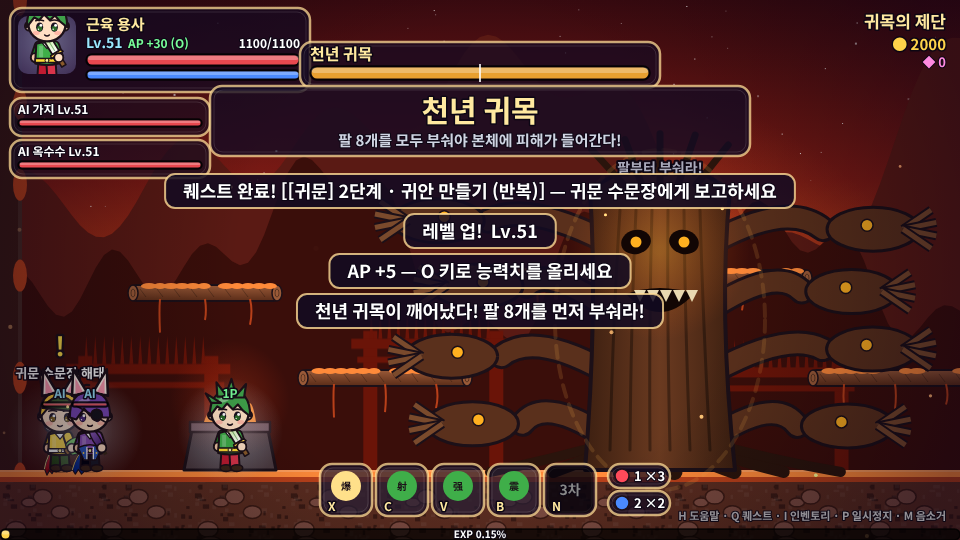
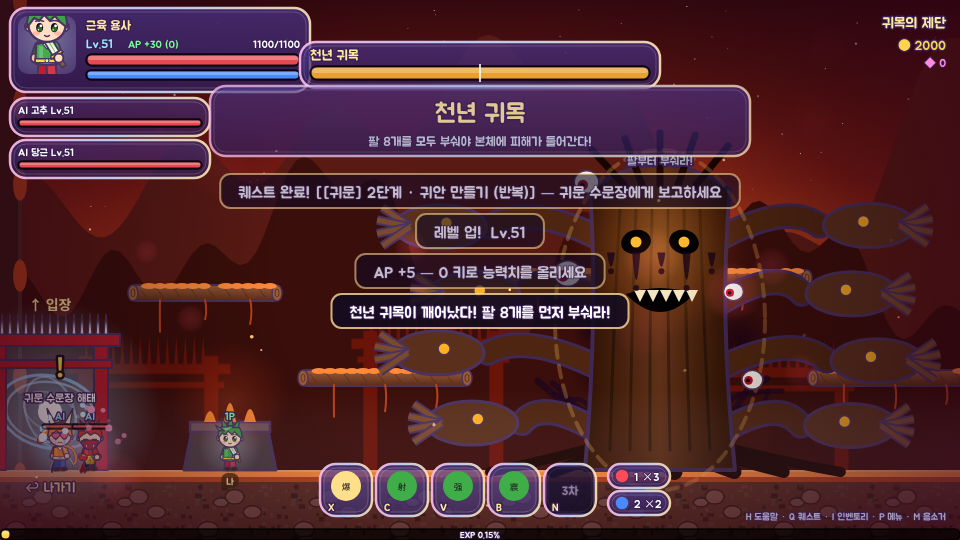
docs: 사냥터·전투 연출·나가기 가이드
Claude-Session: https://claude.ai/code/session_017L5bMY4jqJu3Rbzbdg4ZwK

diff --git a/index.html b/index.html
@@ -1665,6 +1665,7 @@ function updateMobs(dt){
     const mr=rectOf(m);
     for(const p of PARTY){if(!p.dead&&ov(mr,prect(p)))hurtPlayer(p,m.dmg,m.x)}
   }
+  for(const m of S.mobs)if(m.dead&&m.tpl!=null&&!m.queued){m.queued=1;(S.resp=S.resp||[]).push({i:m.tpl,t:RESP_T*(S.L.hunt?.8:1)})}
   S.mobs=S.mobs.filter(m=>!m.dead);
   for(const d of S.dummies){d.flash-=dt;d.shake-=dt;if(d.hp>0){d.regen-=dt;if(d.regen<=0&&d.hp<d.max)d.hp=Math.min(d.max,d.hp+60*dt)}else{d.respawn-=dt;if(d.respawn<=0)d.hp=d.max}}
   for(const b of S.boxes)b.flash-=dt;
@@ -2453,7 +2454,7 @@ function drawAltar(g,a,t,ready){
    QUESTS / DIALOG / SHOP / WARDROBE / HUD / MENUS
    ============================================================ */
 const FONT='"Jua","Malgun Gothic","Apple SD Gothic Neo","Noto Sans KR","Nanum Gothic",sans-serif';
-const F=(s,w='normal')=>`${w} ${s}px ${FONT}`;
+const F=(s,w='normal')=>`${w} ${Math.round(s*.86*10)/10}px ${FONT}`;
 function txt(g,s,x,y,size=16,col='#fff',al='left',o=3){
   g.font=F(size);g.textAlign=al;g.textBaseline='alphabetic';
   if(o){g.lineWidth=o;g.strokeStyle='rgba(58,32,86,.95)';g.lineJoin='round';g.strokeText(s,x,y)}
@@ -2712,6 +2713,7 @@ function talkNPC(n){
     else opts.push({t:'하늘길 (도깨비 대왕 격파 후 개방)',fn:()=>openDialog(n.name,'하늘길은 도깨비 대왕을 쓰러뜨려야 열리네.')});
     if(SAVE.cleared.dokkaebi)opts.push({t:'도깨비 대왕 재도전',fn:()=>{closeUI();goMap('boss1')}});
     if(SAVE.cleared.fox)opts.push({t:'구미호 재도전',fn:()=>{closeUI();goMap('boss2')}});
+    opts.push({t:'사냥터로 가기 …',fn:()=>openDialog(n.name,'어느 사냥터로 보내 줄까? 레벨에 맞는 곳이 경험치가 좋다네.',HUNTS.map(h=>({t:h.name+'  ('+h.lv+')'+(SAVE.lvl<h.min?' 🔒':''),fn:()=>{if(SAVE.lvl<h.min){G.toast(h.name+'은(는) Lv.'+h.min+'부터 갈 수 있어요');return}closeUI();goMap(h.id)}})).concat([{t:'닫기',fn:closeUI}]))});
     opts.push({t:'새싹 항구 (배 타고 돌아가기)',fn:()=>{closeUI();goMap('harbor')}});
     opts.push({t:SAVE.lvl>=15?'비석의 길 (스토리 던전)':'비석의 길 (Lv.15 이상)',fn:()=>{if(SAVE.lvl<15){openDialog(n.name,'비석의 길은 Lv.15 이상만 들어갈 수 있다네.');return}closeUI();goMap('stele')}});
     opts.push({t:SAVE.lvl>=40?'귀문 동굴 (파티던전)':'귀문 동굴 (Lv.40 이상)',fn:()=>{if(SAVE.lvl<40){openDialog(n.name,'귀문은 Lv.40 이상만 들어갈 수 있다네. 그 너머엔 천년 묵은 귀목이 잠들어 있지…');return}closeUI();goMap('cave')}});
@@ -2971,7 +2973,7 @@ function drawHUD(g,t){
   for(const[i,k,c]of[[0,'hp','#ff4a5a'],[1,'mp','#4a8aff']]){const y=H-76+i*27;panel(g,px,y,62,24,.7);circ(g,px+14,y+12,7,c,O_,1.5);txt(g,(i+1)+' ×'+SAVE.potions[k],px+26,y+17,13,'#fff','left',2)}
   // top right
   txt(g,S.L.name,W-14,28,17,'#ffe9a0','right');txt(g,'● '+SAVE.coins,W-14,50,15,'#ffd34a','right');txt(g,'◆ '+SAVE.ec,W-14,67,13,'#ff8ae0','right',2);if(ONLINE_N)txt(g,'🟢 접속 '+ONLINE_N+'명',W-60,67,12,'#9cffb0','right',2);
-  txt(g,'H 도움말 · Q 퀘스트 · I 인벤토리 · P 일시정지 · M 음소거',W-14,H-20,11,'rgba(255,255,255,.55)','right',2);
+  txt(g,'H 도움말 · Q 퀘스트 · I 인벤토리 · P 메뉴 · M 음소거',W-14,H-20,11,'rgba(255,255,255,.55)','right',2);
   // quest tracker
   let qy=78;const act=Object.keys(SAVE.q).filter(k=>SAVE.q[k].s==='active'||SAVE.q[k].s==='ready').slice(0,3);
   for(const k of act){
@@ -3054,7 +3056,7 @@ function drawQuestLog(g,t){
 const HELP=[
   ['1P  이동','← →  /  ↑ ↓ (밧줄·포탈·NPC)'],['1P  점프','Space 또는 Alt  (↓ + 점프 : 아래로 내려가기)'],['1P  공격','Z 또는 Ctrl  (꾹 누르면 연속)'],
   ['1P  스킬','C (수련생) · 1차 X V · 2차 B · 3차 N'],['1P  물약','1 : HP  /  2 : MP'],['2P  이동','A D W S   점프 : Shift   공격 : F'],['2P  스킬','G H T Y U'],
-  ['채팅','Enter : 채팅 (일반 · 확성기 · 고확성기)   O : 능력치(AP)'],['메뉴','Q 퀘스트 · I 인벤토리 · P 일시정지 · M 음소거 · E AI 동료 배치/해제'],['밧줄','밧줄 앞에서 ↑ / ↓ , 점프+좌우로 뛰어내리기'],['팁','일일퀘스트 · PvP 결투장 · 전직(1차 마을/2차 숲 꼭대기/3차 하늘길 끝)'],
+  ['채팅','Enter : 채팅 (일반 · 확성기 · 고확성기)   O : 능력치(AP)'],['메뉴','Q 퀘스트 · I 인벤토리 · P 메뉴 · M 음소거 · E AI 동료 배치/해제'],['밧줄','밧줄 앞에서 ↑ / ↓ , 점프+좌우로 뛰어내리기'],['팁','일일퀘스트 · PvP 결투장 · 전직(1차 마을/2차 숲 꼭대기/3차 하늘길 끝)'],
 ];
 function drawHelp(g){
   g.fillStyle='rgba(8,4,16,.7)';g.fillRect(0,0,W,H);panel(g,90,50,780,440,.94);
@@ -3090,14 +3092,14 @@ function goMap(id,instant,end){
 }
 function loadMap(id,end){
   PARTY=PARTY.filter(p=>!p.foe);
-  const L=MAPS[id]();
+  const L=MAPS[id]();addExitPortal(L);
   if(end&&L.endSpawn)L.spawn=L.endSpawn;
   S={L,id,t:0,time:0,mobs:[],dummies:[],boxes:[],items:[],pshots:[],eproj:[],zones:[],fx:[],clones:[],boss:null,cam:{x:0,y:0},shake:0,hitstop:0,slow:0,
      cp:{x:L.spawn.x,y:L.spawn.y},flagsOn:L.flags.map(f=>Object.assign({on:false},f)),drops:L.drops.map(d=>({x:d.x,y:d.y,period:d.period,t:d.ph,warn:0})),
      bg:getBG(L.theme),kills:0,pq:null,spT:0,npcs:L.npcs};
   parts.length=0;texts.length=0;
   const fire=Object.assign(L.theme==='lava'?{col:'rgba(255,140,60,',col2:'#ff9a40',col3:'#c03010'}:{},L.mhue?{hue:L.mhue}:{});
-  for(const m of L.mobs){if(m[0]==='egg')spawnMob('egg',m[1],m[2],Object.assign({min:m[3],max:m[4]},L.mhue?{hue:L.mhue}:{}));else spawnMob('wisp',m[1],m[2],Object.assign({range:m[3]},fire))}
+  S.resp=[];L.mobs.forEach((m,k)=>spawnTpl(k));
   for(const d of L.dummies)S.dummies.push({kind:'dummy',x:d.x,y:d.y,w:36,h:92,hp:150,max:150,shake:0,flash:0,regen:0,respawn:0});
   for(const b of L.boxes)S.boxes.push(Object.assign({kind:'box',w:44,h:44,dead:false},b));
   if(L.pq){
@@ -3176,6 +3178,7 @@ function nearInteract(){
   return null;
 }
 function usePortal(po){
+  if(po.to==='__exit')return exitDungeon();
   if(po.lockLv&&SAVE.lvl<po.lockLv){G.toast(po.boat?'배는 Lv.5부터 탈 수 있어요 — 항구에서 조금 더 수련해요!':'Lv.'+po.lockLv+' 이상만 갈 수 있다');return}
   if(po.boat){SAVE.flags.leftHarbor=1;saveGame()}
   if(po.lock&&!SAVE.cleared[po.lock]){G.toast('아직 갈 수 없다… ('+MOBNAME(po.lock)+'을(를) 쓰러뜨려야 한다)');return}
@@ -3218,6 +3221,7 @@ function step(dt){
     else if(G.ui==='qlog'){if(pressed.KeyQ||pressed.Escape||pressed.Enter)closeUI()}
     else if(G.ui==='help'){if(Object.keys(pressed).length)closeUI()}
     else if(G.ui==='pause'){const nv=nav();if(nv.u||nv.d){G.psel=1-(G.psel||0);sfx('sel')}if(pressed.KeyP||pressed.Escape){closeUI()}else if(nv.ok){if(G.psel){saveGame();stopMusic();G.state='title';G.ui=null;S=null}else closeUI()}}
+    if(G.state==='play'&&S&&G.ui!=='scene')playStep(dt);   // 온라인 게임: UI 를 열어도 세계는 멈추지 않는다
     return;
   }
   if(pressed.KeyP||pressed.Escape){G.ui='pause';G.psel=0;return}
@@ -3244,7 +3248,7 @@ function playStep(dt){
   S.t+=dt;S.time+=dt;G.banner&&(G.banner.t+=dt);
   updatePlats(L,dt,S.t);
   for(const p of PARTY)updatePlayer(p,dt);
-  updateMobs(dt);updateItems(dt);updatePshots(dt);updateEproj(dt);updateZones(dt);updateBoss(dt);storyStep(dt);presenceStep(dt);
+  updateMobs(dt);updateItems(dt);updatePshots(dt);updateEproj(dt);updateZones(dt);updateBoss(dt);storyStep(dt);presenceStep(dt);respawnStep(dt);fxStep(dt);
   // totems
   for(const d of S.drops){
     d.t+=dt;const ph=d.t%d.period;d.warn=ph>d.period-.75?1:0;
@@ -3382,6 +3386,7 @@ function drawWorld(g){
   }
   if(L.harbor)drawHarborDecor(g,L,t,cam);
   if(L.houses)drawTownDecor(g,L,t,cam);
+  if(L.sign)drawHuntSign(g,L,t);
   if(L.steles)for(const st of L.steles)if(vis(st.x-140,st.y-240,280,290))drawStele(g,st,t,S.near&&S.near.st===st);
   if(L.altar)drawAltar(g,L.altar,t,SAVE.inv.gwi>0&&!S.boss);
   for(const d of S.dummies)drawDummy(g,d,t);
@@ -3399,20 +3404,20 @@ function drawWorld(g){
     if(m.hp<m.max){g.fillStyle='rgba(0,0,0,.6)';g.fillRect(m.x-16,(m.type==='wisp'?m.y-36:m.y-46),32,5);g.fillStyle='#ff5a5a';g.fillRect(m.x-15,(m.type==='wisp'?m.y-35:m.y-45),30*m.hp/m.max,3)}}
   if(S.boss)drawBoss(g,S.boss,t);
   for(const m of S.mobs)if(m.type==='arm'&&!m.dead)drawArm(g,m,t);
-  drawPeers(g,t);
+  drawPeers(g,t);drawTrails(g,t);
   // party
   const order=PARTY.slice().reverse();
   for(const p of order){
     if(p.dead){g.save();g.globalAlpha=.45;drawVeggie(g,JOB[p.job],{sc:WSC,fid:p.fid,x:p.x,y:p.y-30+Math.sin(t*3)*6,face:p.face,t:p.t,st:'idle',eq:p.eq,tier:p.tier,alpha:.45});g.restore();continue}
     const st=p.stun>0?'hurt':p.skillT>0&&p.atkT<=0?'skill':p.atkT>0?'atk':p.rope?'climb':!p.onGround?'air':Math.abs(p.vx)>30?'run':'idle';
     const blink=p.inv>0&&Math.floor(p.inv*14)%2===0&&p.stun<=0;
-    drawVeggie(g,JOB[p.job],{sc:WSC,fid:p.fid,x:p.x,y:p.y,face:p.face,t:p.t,st,ap:p.atkDur?1-p.atkT/p.atkDur:0,combo:p.combo,buff:!!p.buff,eq:p.eq,tier:p.tier,alpha:blink?.45:1});
+    drawVeggie(g,JOB[p.job],{sc:WSC,fid:p.fid,x:p.x,y:p.y-(p.skillT>0?Math.sin(clamp(1-p.skillT/.38,0,1)*Math.PI)*9:0),face:p.face,t:p.t,st,ap:p.atkDur?1-p.atkT/p.atkDur:0,combo:p.combo,buff:!!p.buff,eq:p.eq,tier:p.tier,alpha:blink?.45:1});
     if(p.shieldT>0){g.strokeStyle=`rgba(150,230,255,${.5+.3*Math.sin(t*10)})`;g.lineWidth=3;g.beginPath();g.arc(p.x,p.y-18,24,0,6.28);g.stroke();g.fillStyle='rgba(150,230,255,.12)';g.fill()}
     if(L.pvp){txt(g,(p===lead?'1P':p.kind==='p2'?'2P':p.team===lead.team?'아군':'상대'),p.x,p.y-50,12,p.team===lead.team?'#7aff9a':'#ff8a8a','center',3);bar(g,p.x-18,p.y-46,36,5,p.hp/p.maxhp,'#e8484f')}
     else if(p!==lead){txt(g,(p.kind==='p2'?'2P':'AI')+(p.hold?' ■':''),p.x,p.y-50,12,p.kind==='p2'?'#ffb84a':'#9be8ff','center',3);bar(g,p.x-18,p.y-46,36,5,p.hp/p.maxhp,'#e8484f')}
     else txt(g,'1P',p.x,p.y-50,12,'#7aff9a','center',3);
   }
-  drawSelfTag(g);
+  drawSelfTag(g);drawFX2(g,t);
   for(const s of S.pshots)drawPshot(g,s,t);
   for(const e of S.eproj)drawEproj(g,e,t);
   for(const z of S.zones)drawZone(g,z,t);
@@ -3448,7 +3453,7 @@ function render(){
     if(G.banner&&G.banner.t<3.2&&!G.ui){const a=Math.min(1,G.banner.t*2,(3.2-G.banner.t)*2);g.globalAlpha=clamp(a,0,1);
       panel(g,W/2-270,86,540,70,.78);txt(g,G.banner.name,W/2,122,30,'#ffe9a0','center');txt(g,G.banner.sub,W/2,146,15,'#cfd4e2','center',2);g.globalAlpha=1}
     if(G.ui==='dialog')drawDialog(g,t);else if(G.ui==='shop')drawShop(g,t);else if(G.ui==='wardrobe')drawWardrobe(g,t);else if(G.ui==='inv')drawInv(g,t);else if(G.ui==='stat')drawStat(g,t);else if(G.ui==='fame')drawFame(g,t);else if(G.ui==='scene')drawScene(g,t);else if(G.ui==='qlog')drawQuestLog(g,t);else if(G.ui==='help')drawHelp(g);
-    else if(G.ui==='pause'){g.fillStyle='rgba(8,4,16,.6)';g.fillRect(0,0,W,H);txt(g,'일시정지',W/2,200,36,'#ffe9a0','center');['계속하기','저장하고 타이틀로'].forEach((s,i)=>{const y=240+i*50,sel=(G.psel||0)===i;g.fillStyle=sel?'rgba(255,220,120,.3)':'rgba(255,255,255,.08)';g.beginPath();g.roundRect(W/2-140,y,280,40,10);g.fill();txt(g,s,W/2,y+27,19,sel?'#ffe9a0':'#fff','center')})}
+    else if(G.ui==='pause'){g.fillStyle='rgba(8,4,16,.6)';g.fillRect(0,0,W,H);txt(g,'메뉴 (게임은 계속 진행 중)',W/2,200,30,'#ffe9a0','center');['계속하기','저장하고 타이틀로'].forEach((s,i)=>{const y=240+i*50,sel=(G.psel||0)===i;g.fillStyle=sel?'rgba(255,220,120,.3)':'rgba(255,255,255,.08)';g.beginPath();g.roundRect(W/2-140,y,280,40,10);g.fill();txt(g,s,W/2,y+27,19,sel?'#ffe9a0':'#fff','center')})}
     if(S.pvp&&S.pvp.over){g.fillStyle='rgba(8,4,16,.55)';g.fillRect(0,0,W,H);const win=S.pvp.winner===0;txt(g,win?'승리!':'패배…',W/2,230,56,win?'#ffe04a':'#ff8a8a','center');txt(g,S.pvp.score[0]+' : '+S.pvp.score[1]+'   (전적 '+SAVE.duel.w+'승 '+SAVE.duel.l+'패)',W/2,276,22,'#fff','center');if(S.pvp.t>1.2)txt(g,'Enter : 마을로',W/2,320,20,'#cfd4e2','center',2)}
     if(G.state==='over'){g.fillStyle='rgba(20,0,10,.7)';g.fillRect(0,0,W,H);txt(g,'기절했다…',W/2,230,48,'#ff8a8a','center');txt(g,'Enter : 다시 도전      Esc : 마을로',W/2,290,20,'#fff','center')}
     if(G.state==='clear'&&G.clear){g.fillStyle='rgba(8,4,16,.6)';g.fillRect(0,0,W,H);panel(g,W/2-250,120,500,300,.94);txt(g,G.clear.title,W/2,184,36,'#ffe04a','center');G.clear.lines.forEach((l,i)=>txt(g,l,W/2,236+i*34,20,'#fff','center'));txt(g,'Enter : 돌아가기',W/2,392,17,'#cfd4e2','center',2)}
@@ -4201,6 +4206,7 @@ function buildTown2(){
   L.npcs.push(Object.assign({},NPCS.find(n=>n.id==='roofcat'),{x:roof.x+roof.w/2,gy:gy-roof.h-26}));
   L.npcs.push(Object.assign({},NPCS.find(n=>n.id==='swingkid'),{x:320,gy}));
   L.npcs.push(Object.assign({},NPCS.find(n=>n.id==='balloon'),{x:bx,gy:120}));
+  L.portals.unshift({x:40,y:gy,to:'h1',label:'꽃잎 언덕 (사냥터)',lockLv:5});
   L.houses=HS;L.bigTree={x:320,y:gy};L.balloon={x:bx,y:120};
   return L;
 }
@@ -4411,5 +4417,129 @@ function drawTitle(g,t){
   txt(g,'↑↓ 선택 · Enter 확인',W/2,H-14,14,'#fff','center',3);
   txt(g,ACCT?'☁ '+ACCT.name+' 님 · 클라우드 저장 '+(CLOUD.ok===false?'(연결 실패)':'ON'):'게스트 · 이 브라우저에만 저장돼요',W-14,H-14,13,'#fff','right',3);
   if(G.helpT)drawHelp(g);
+}
+/* ============================================================
+   HUNT : 사냥터 5곳 · 몬스터 리젠 · 던전 나가기 · 스킬 이펙트/모션
+   ============================================================ */
+/* ---------- 사냥터 ---------- */
+const HUNTS=[
+ {id:'h1',name:'꽃잎 언덕',lv:'Lv.5~15',min:5,theme:'forest',ms:1,hue:0,sub:'벚꽃잎이 흩날리는 첫 사냥터'},
+ {id:'h2',name:'반딧불 숲',lv:'Lv.15~30',min:15,theme:'bamboo',ms:2.4,hue:80,sub:'밤마다 반딧불이 춤추는 대나무 숲'},
+ {id:'h3',name:'솜사탕 구름 목장',lv:'Lv.30~50',min:30,theme:'sky',ms:4.5,hue:300,sub:'구름 양떼가 뛰노는 하늘 목장'},
+ {id:'h4',name:'별빛 호수',lv:'Lv.50~70',min:50,theme:'night',ms:7,hue:200,sub:'별이 내려앉은 고요한 호숫가'},
+ {id:'h5',name:'달그림자 계곡',lv:'Lv.70~',min:70,theme:'origin',ms:10,hue:260,sub:'꿈과 현실의 경계, 가장 깊은 계곡'},
+];
+function buildHunt(i){
+  const H=HUNTS[i],gy=470,Wd=2800,r=mulberry(4000+i*17);
+  const L=newL({id:H.id,name:H.name,sub:H.lv+' · '+H.sub,theme:H.theme,music:i>=3?'sky':'field',w:Wd,h:540,mscale:H.ms,mhue:H.hue,hunt:i+1,spawn:{x:140,y:gy}});
+  L.plats.push(plat(-300,gy,Wd+600,300,'s'));
+  // 메이플식 층 구조 : 긴 발판 + 밧줄
+  const tiers=[[360,[[260,520],[960,560],[1700,620]]],[250,[[560,520],[1300,560],[2020,520]]],[140,[[880,460],[1640,480]]]];
+  for(const[y,list]of tiers)for(const[x,w]of list){
+    L.plats.push(plat(x,y,w,16,'o'));
+    L.ropes.push({x:x+40+Math.round(r()*(w-80)),y1:y,y2:gy});
+    const n=w>=540?2:1;for(let k=0;k<n;k++){const mx=x+40+(w-80)*(k+.5)/n;L.mobs.push(['egg',mx,y,x+12,x+w-12])}
+  }
+  for(let k=0;k<7;k++){const x=320+k*340;L.mobs.push(['egg',x,gy,x-150,x+150])}
+  for(let k=0;k<4;k++)L.mobs.push(['wisp',500+k*560,200+(k%2)*60,90]);
+  L.portals=[{x:60,y:gy,to:i?HUNTS[i-1].id:'town',label:i?'← '+HUNTS[i-1].name:'← 야채마을'}];
+  if(i<HUNTS.length-1)L.portals.push({x:Wd-70,y:gy,to:HUNTS[i+1].id,label:HUNTS[i+1].name+' →',lockLv:HUNTS[i+1].min});
+  else L.portals.push({x:Wd-70,y:gy,to:'town',label:'야채마을 →'});
+  L.sign={x:230,y:gy,t:H.name,s:H.lv};
+  return L;
+}
+HUNTS.forEach((h,i)=>{MAPS[h.id]=()=>buildHunt(i)});
+function drawHuntSign(g,L,t){
+  const s=L.sign;if(!s)return;const x=s.x,y=s.y;
+  g.fillStyle='#8a6040';g.fillRect(x-4,y-80,8,80);g.strokeStyle=O_;g.lineWidth=2;g.strokeRect(x-4,y-80,8,80);
+  g.beginPath();g.roundRect(x-74,y-122,148,50,10);const gr=g.createLinearGradient(0,y-122,0,y-72);gr.addColorStop(0,'#fff6fd');gr.addColorStop(1,'#f0d8ff');g.fillStyle=gr;g.fill();g.lineWidth=2.5;g.stroke();
+  txt(g,s.t,x,y-100,15,'#7a3a9a','center',0);txt(g,s.s,x,y-81,12,'#9a70c0','center',0);
+  for(let k=0;k<3;k++)circ(g,x-60+k*60,y-122,3.5,['#ff9ad8','#ffe080','#a8e0ff'][k],O_,1);
+}
+
+/* ---------- 몬스터 리젠 (빠르게) ---------- */
+const RESP_T=2.2;
+function spawnTpl(i){
+  const L=S.L,m=L.mobs[i];if(!m)return null;let mob;
+  const fire=Object.assign(L.theme==='lava'?{col:'rgba(255,140,60,',col2:'#ff9a40',col3:'#c03010'}:{},L.mhue?{hue:L.mhue}:{});
+  if(m[0]==='egg')mob=spawnMob('egg',m[1],m[2],Object.assign({min:m[3],max:m[4]},L.mhue?{hue:L.mhue}:{}));
+  else mob=spawnMob('wisp',m[1],m[2],Object.assign({range:m[3]},fire));
+  if(mob)mob.tpl=i;return mob;
+}
+function respawnStep(dt){
+  if(!S.resp)S.resp=[];
+  for(const m of S.mobs)if(m.dead&&m.tpl!=null&&!m.queued){m.queued=1;S.resp.push({i:m.tpl,t:RESP_T*(S.L.hunt?.8:1)})}
+  for(const r of S.resp)r.t-=dt;
+  const ready=S.resp.filter(r=>r.t<=0);S.resp=S.resp.filter(r=>r.t>0);
+  for(const r of ready){const m=spawnTpl(r.i);if(m){spark(m.x,m.y-14,12,'#fff0ff',160,.5,3,0,true);m.flash=.3}}
+}
+
+/* ---------- 던전 · 사냥 맵 나가기 ---------- */
+function addExitPortal(L){
+  if(L.town||L.pvp||L.hunt||L.noExit)return;
+  L.portals.push({x:Math.max(40,(L.spawn?L.spawn.x:100)-70),y:L.spawn?L.spawn.y:470,to:'__exit',label:'↩ 나가기',exit:true});
+}
+function exitDungeon(){
+  const busy=(S.boss&&!S.boss.dead)||(S.dg&&!S.dg.done)||S.L.pq||S.L.altarMap&&S.boss;
+  const go=()=>{closeUI();if(S.L.pq){G.pqRun=null}if(S.pvp)S.pvp.over=true;returnTown()};
+  if(busy){openDialog('던전 나가기','지금 나가면 이 던전의 진행 상황이 사라져요.\n(보스 체력 · 웨이브 · 파티퀘스트 단계)\n\n정말 나갈까요?',[{t:'나가기',fn:go},{t:'계속 싸우기',fn:closeUI}]);return}
+  go();
+}
+
+/* ---------- 스킬 이펙트 · 모션 ---------- */
+const FX2=[];
+const jobCol=p=>{const c=JOB[p.job];return c.fx||c.col||'#ffd34a'};
+function fxPush(o){FX2.push(Object.assign({t:0},o));if(FX2.length>120)FX2.shift()}
+const _castSkill=castSkill;
+castSkill=function(p,i){
+  const cd=p.cds[i];_castSkill(p,i);
+  if(p.cds[i]>cd){ // 실제로 발동했을 때
+    const col=jobCol(p),tier=SK_TIER[i];
+    fxPush({k:'circle',x:p.x,y:p.y,col,max:.7,r:34+tier*8});
+    fxPush({k:'pillar',x:p.x,y:p.y,col,max:.45});
+    for(let k=0;k<3;k++)fxPush({k:'ring',x:p.x,y:p.y-18,col,max:.5,delay:k*.08,r:60+k*20});
+    spark(p.x,p.y-20,16+tier*6,col,260,.6,3.2,-40,true);
+    p.trailT=.45;S.shake=Math.max(S.shake,3+tier*2);
+    if(tier>=2)G.flashT=.12,G.flashC=col;
+    ftext(p.x,p.y-64,JOB[p.job].sk[i].n,'#fff',13,.9);
+  }
+};
+const _doBasic=doBasic;
+doBasic=function(p,I){_doBasic(p,I);const b=JOB[p.job].basic;
+  if(b.k==='shoot')fxPush({k:'muzzle',x:p.x+p.face*16,y:p.y-22,col:jobCol(p),max:.15,f:p.face});
+  else fxPush({k:'swing',x:p.x,y:p.y-20,col:jobCol(p),max:.22,f:p.face,r:(b.range||50)*.8});
+};
+const _dealDamage=dealDamage;
+dealDamage=function(p,t,dmg,dir){_dealDamage(p,t,dmg,dir);try{const r=rectOf(t);fxPush({k:'hit',x:r.x+r.w/2+rnd(-6,6),y:r.y+r.h*.45+rnd(-6,6),col:p?jobCol(p):'#fff',max:.25,rot:Math.random()*6})}catch(e){}};
+function fxStep(dt){
+  for(const f of FX2)f.t+=dt;for(let i=FX2.length-1;i>=0;i--)if(FX2[i].t>FX2[i].max+(FX2[i].delay||0))FX2.splice(i,1);
+  for(const p of PARTY){p.trailT=Math.max(0,(p.trailT||0)-dt);
+    if(p.trailT>0||p.dashT>0){p.trail=p.trail||[];p.trail.push({x:p.x,y:p.y,f:p.face,st:p.atkT>0?'atk':'skill',a:.35});if(p.trail.length>6)p.trail.shift()}else if(p.trail&&p.trail.length)p.trail.shift()}
+  for(const s of S.pshots)if(Math.random()<.7)parts.push({x:s.x+rnd(-3,3),y:s.y+rnd(-3,3),vx:-s.vx*.05,vy:rnd(-10,10),life:.3,max:.3,size:rnd(2,3.6),col:s.owner?jobCol(s.owner):'#fff',grav:0,glow:true});
+  if(G.flashT>0)G.flashT-=dt;
+}
+function drawTrails(g,t){
+  for(const p of PARTY){if(!p.trail||!p.trail.length)continue;
+    p.trail.forEach((q,i)=>{g.save();g.globalAlpha=.08+i*.05;g.filter='brightness(1.6) saturate(1.4)';drawVeggie(g,JOB[p.job],{sc:WSC,fid:p.fid,x:q.x,y:q.y,face:q.f,t:p.t,st:q.st,eq:p.eq,tier:p.tier});g.restore()})}
+}
+function drawFX2(g,t){
+  for(const f of FX2){const k=Math.max(0,f.t-(f.delay||0))/f.max;if(f.t<(f.delay||0))continue;const a=1-k;
+    g.save();
+    if(f.k==='circle'){g.translate(f.x,f.y);g.scale(1,.32);g.rotate(t*3);g.globalAlpha=a;g.strokeStyle=f.col;g.lineWidth=3;
+      g.beginPath();g.arc(0,0,f.r*(.6+k*.5),0,6.28);g.stroke();g.lineWidth=1.6;g.beginPath();g.arc(0,0,f.r*(.42+k*.4),0,6.28);g.stroke();
+      for(let i=0;i<6;i++){const an=i/6*6.28;g.save();g.rotate(an);g.fillStyle=f.col;g.fillRect(f.r*(.5+k*.45)-3,-3,6,6);g.restore()}
+      g.globalCompositeOperation='lighter';g.globalAlpha=a*.35;const gr=g.createRadialGradient(0,0,0,0,0,f.r);gr.addColorStop(0,f.col);gr.addColorStop(1,'rgba(0,0,0,0)');g.fillStyle=gr;g.beginPath();g.arc(0,0,f.r,0,6.28);g.fill()}
+    else if(f.k==='pillar'){g.globalCompositeOperation='lighter';g.globalAlpha=a*.6;const w=20*(1-k*.5),gr=g.createLinearGradient(0,f.y-120,0,f.y);gr.addColorStop(0,'rgba(255,255,255,0)');gr.addColorStop(1,f.col);g.fillStyle=gr;g.fillRect(f.x-w/2,f.y-120,w,120)}
+    else if(f.k==='ring'){g.globalAlpha=a*.8;g.strokeStyle='#fff';g.lineWidth=2.5*a+.5;g.beginPath();g.arc(f.x,f.y,f.r*k,0,6.28);g.stroke()}
+    else if(f.k==='swing'){g.translate(f.x,f.y);g.scale(f.f,1);g.globalCompositeOperation='lighter';g.globalAlpha=a*.85;
+      const a0=-1.6+k*2.4,gr=g.createRadialGradient(0,0,f.r*.4,0,0,f.r);gr.addColorStop(0,'rgba(255,255,255,0)');gr.addColorStop(.8,f.col);gr.addColorStop(1,'rgba(255,255,255,.9)');
+      g.fillStyle=gr;g.beginPath();g.arc(0,0,f.r,a0-1.2,a0);g.arc(0,0,f.r*.55,a0,a0-1.2,true);g.closePath();g.fill()}
+    else if(f.k==='muzzle'){g.globalCompositeOperation='lighter';g.globalAlpha=a;g.translate(f.x,f.y);for(let i=0;i<5;i++){g.rotate(1.256);g.fillStyle=i%2?'#fff':f.col;g.fillRect(0,-1.5,10*a+4,3)}}
+    else if(f.k==='hit'){g.translate(f.x,f.y);g.rotate(f.rot);g.globalCompositeOperation='lighter';g.globalAlpha=a;const s=8+k*14;
+      g.fillStyle='#fff';g.beginPath();for(let i=0;i<8;i++){const an=i/8*6.28,rr=i%2?s*.35:s;g.lineTo(Math.cos(an)*rr,Math.sin(an)*rr)}g.closePath();g.fill();
+      g.strokeStyle=f.col;g.lineWidth=2;g.beginPath();g.arc(0,0,s*1.2,0,6.28);g.stroke()}
+    g.restore();
+  }
+  if(G.flashT>0){g.save();g.setTransform(1,0,0,1,0,0);g.globalAlpha=G.flashT*1.4;g.fillStyle=G.flashC||'#fff';g.globalCompositeOperation='lighter';g.fillRect(0,0,9999,9999);g.restore()}
 }
 </script></body></html>

diff --git a/tests/test_hunt_fx.py b/tests/test_hunt_fx.py
@@ -1,0 +1,27 @@
+import asyncio, os
+from playwright.async_api import async_playwright
+async def main():
+    async with async_playwright() as p:
+        kw=dict(args=['--no-sandbox','--use-gl=swiftshader'])
+        if os.path.exists('/usr/bin/google-chrome'): kw['executable_path']='/usr/bin/google-chrome'
+        b=await p.chromium.launch(**kw); pg=await b.new_page(viewport={'width':960,'height':540})
+        errs=[]; pg.on('pageerror',lambda e: errs.append(str(e)))
+        await pg.goto('file://'+os.path.abspath('index.html')); await pg.wait_for_timeout(300)
+        print('no pause',await pg.evaluate("""()=>{const g=__game;g.newGame('mage');SAVE.lvl=20;SAVE.flags.leftHarbor=1;g.goMap('h2',true);const m=S.mobs[0];const x0=m.x;
+          openDialog('test','hi');for(let i=0;i<120;i++)g.step(1/60);const moved=Math.abs(m.x-x0)>1;const t0=S.t;closeUI();return [moved,S.mobs.length,S.L.portals.map(p=>p.label).join('|')]}"""))
+        print('respawn',await pg.evaluate("""()=>{const g=__game;const n=S.mobs.length;for(const m of S.mobs.slice(0,5))killMob(m);g.step(1/60);const a=S.mobs.filter(m=>!m.dead).length;for(let i=0;i<60*2.2;i++)g.step(1/60);return [n,a,S.mobs.filter(m=>!m.dead).length]}"""))
+        print('exit',await pg.evaluate("""()=>{const g=__game;g.goMap('boss1',true);const po=S.L.portals.find(p=>p.exit);usePortal(po);const t=G.dlg&&G.dlg.title;G.dlg.opts[0].fn();return [!!po,t]}"""))
+        await pg.wait_for_timeout(1000)
+        print('after exit',await pg.evaluate("S.id"))
+        print('ch exit',await pg.evaluate("""()=>{SAVE.lvl=20;__game.goMap('ch1f',true);const po=S.L.portals.find(p=>p.exit);usePortal(po);return !!po}""")); await pg.wait_for_timeout(1000)
+        print('->',await pg.evaluate("S.id"))
+        # fx shot
+        await pg.evaluate("""(()=>{const g=__game;g.goMap('h3',true);SAVE.lvl=35;SAVE.tier=2;const p=PARTY[0];p.lvl=35;p.tier=2;recalc(p);p.mp=999;G.banner.t=9;G.toasts.length=0;p.x=700;S.cam.x=300;
+          for(const m of S.mobs){if(m.type==='egg'){m.x=p.x+60+Math.random()*200}}
+          for(let i=0;i<60;i++)g.step(1/60);g.press('KeyB');for(let i=0;i<8;i++)g.step(1/60);g.press('KeyZ');for(let i=0;i<5;i++)g.step(1/60)})()""")
+        await pg.screenshot(path='/tmp/fx1.png')
+        await pg.evaluate("""(()=>{const g=__game;const p=PARTY[0];p.mp=999;p.cds=[0,0,0,0,0];g.press('KeyX');for(let i=0;i<10;i++)g.step(1/60)})()"""); await pg.screenshot(path='/tmp/fx2.png')
+        for i in range(5):
+            await pg.evaluate(f"(()=>{{__game.goMap('h{i+1}',true);G.banner.t=9;const p=PARTY[0];p.x=1300;S.cam.x=880;S.cam.y=0;for(let i=0;i<20;i++)__game.step(1/60)}})()"); await pg.wait_for_timeout(150); await pg.screenshot(path=f'/tmp/hunt{i}.png')
+        print(errs or 'NO ERRORS'); await b.close()
+asyncio.run(main())
